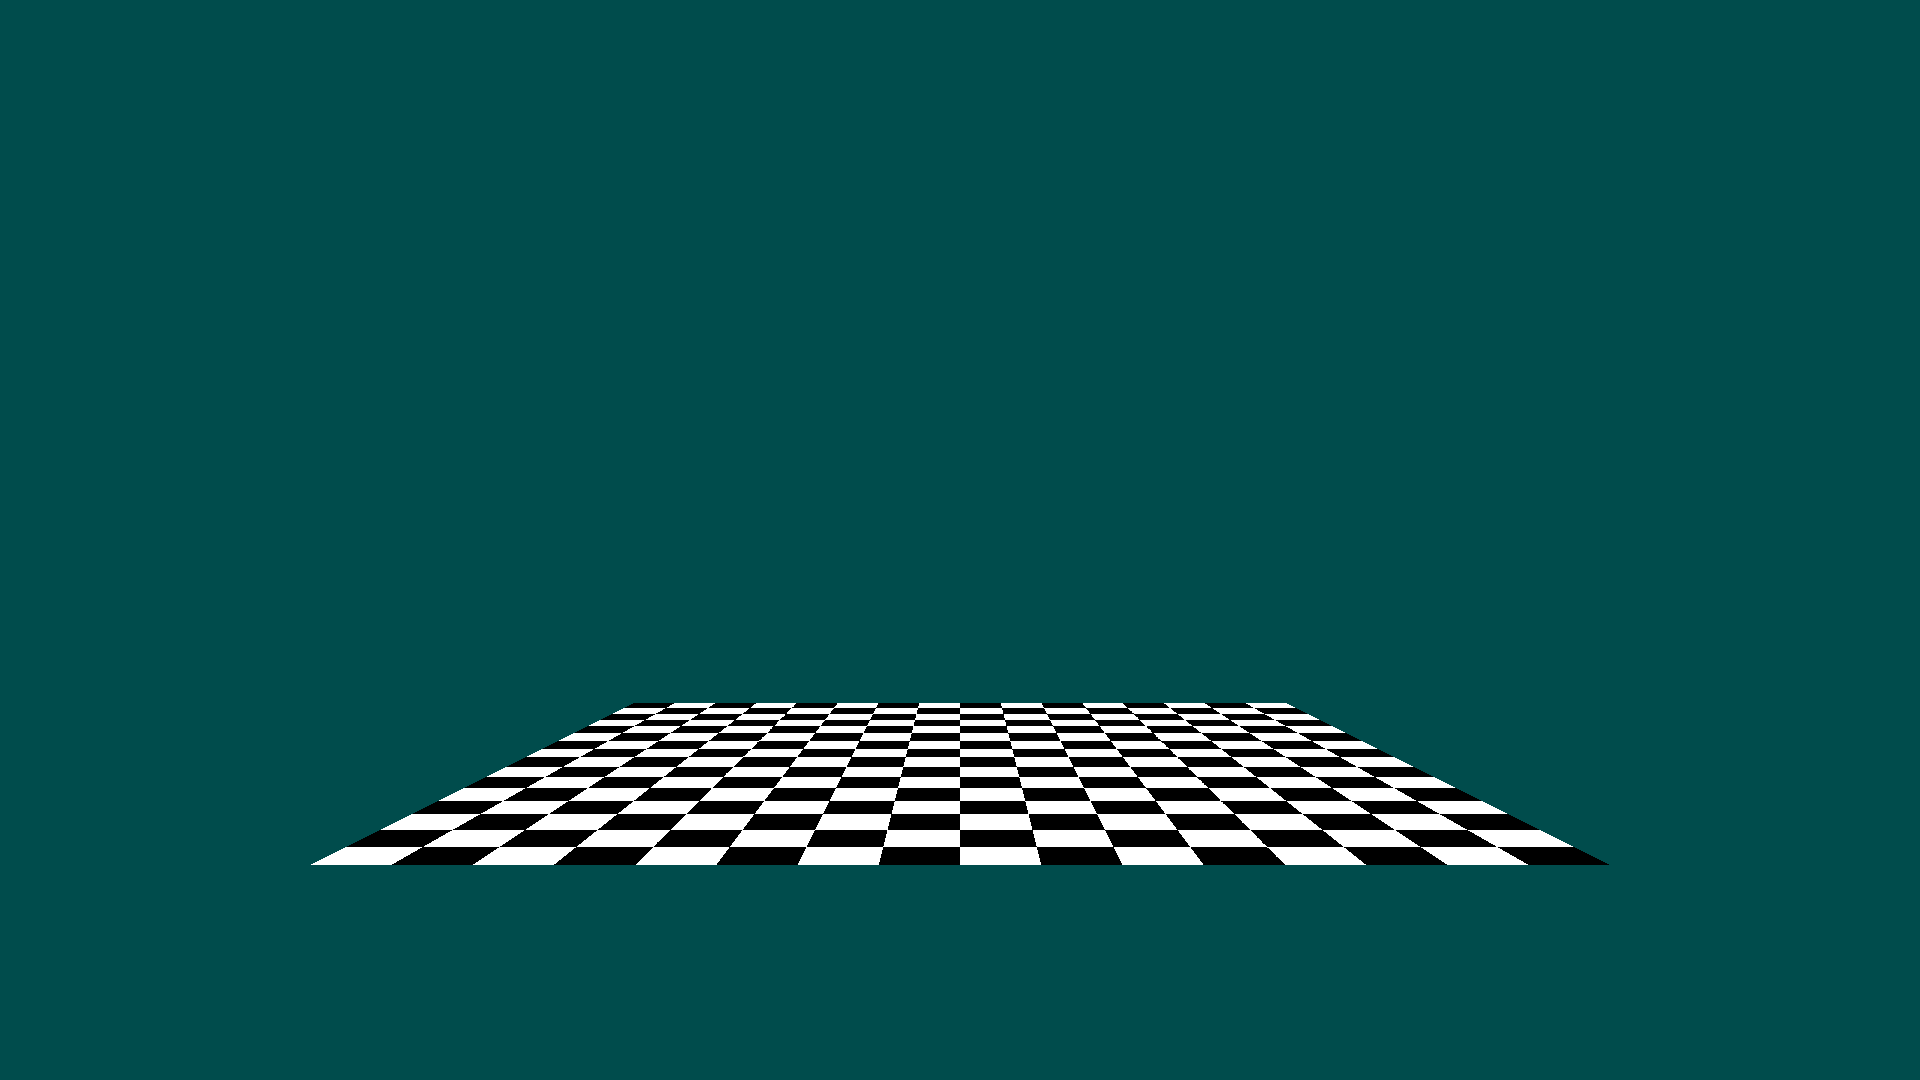
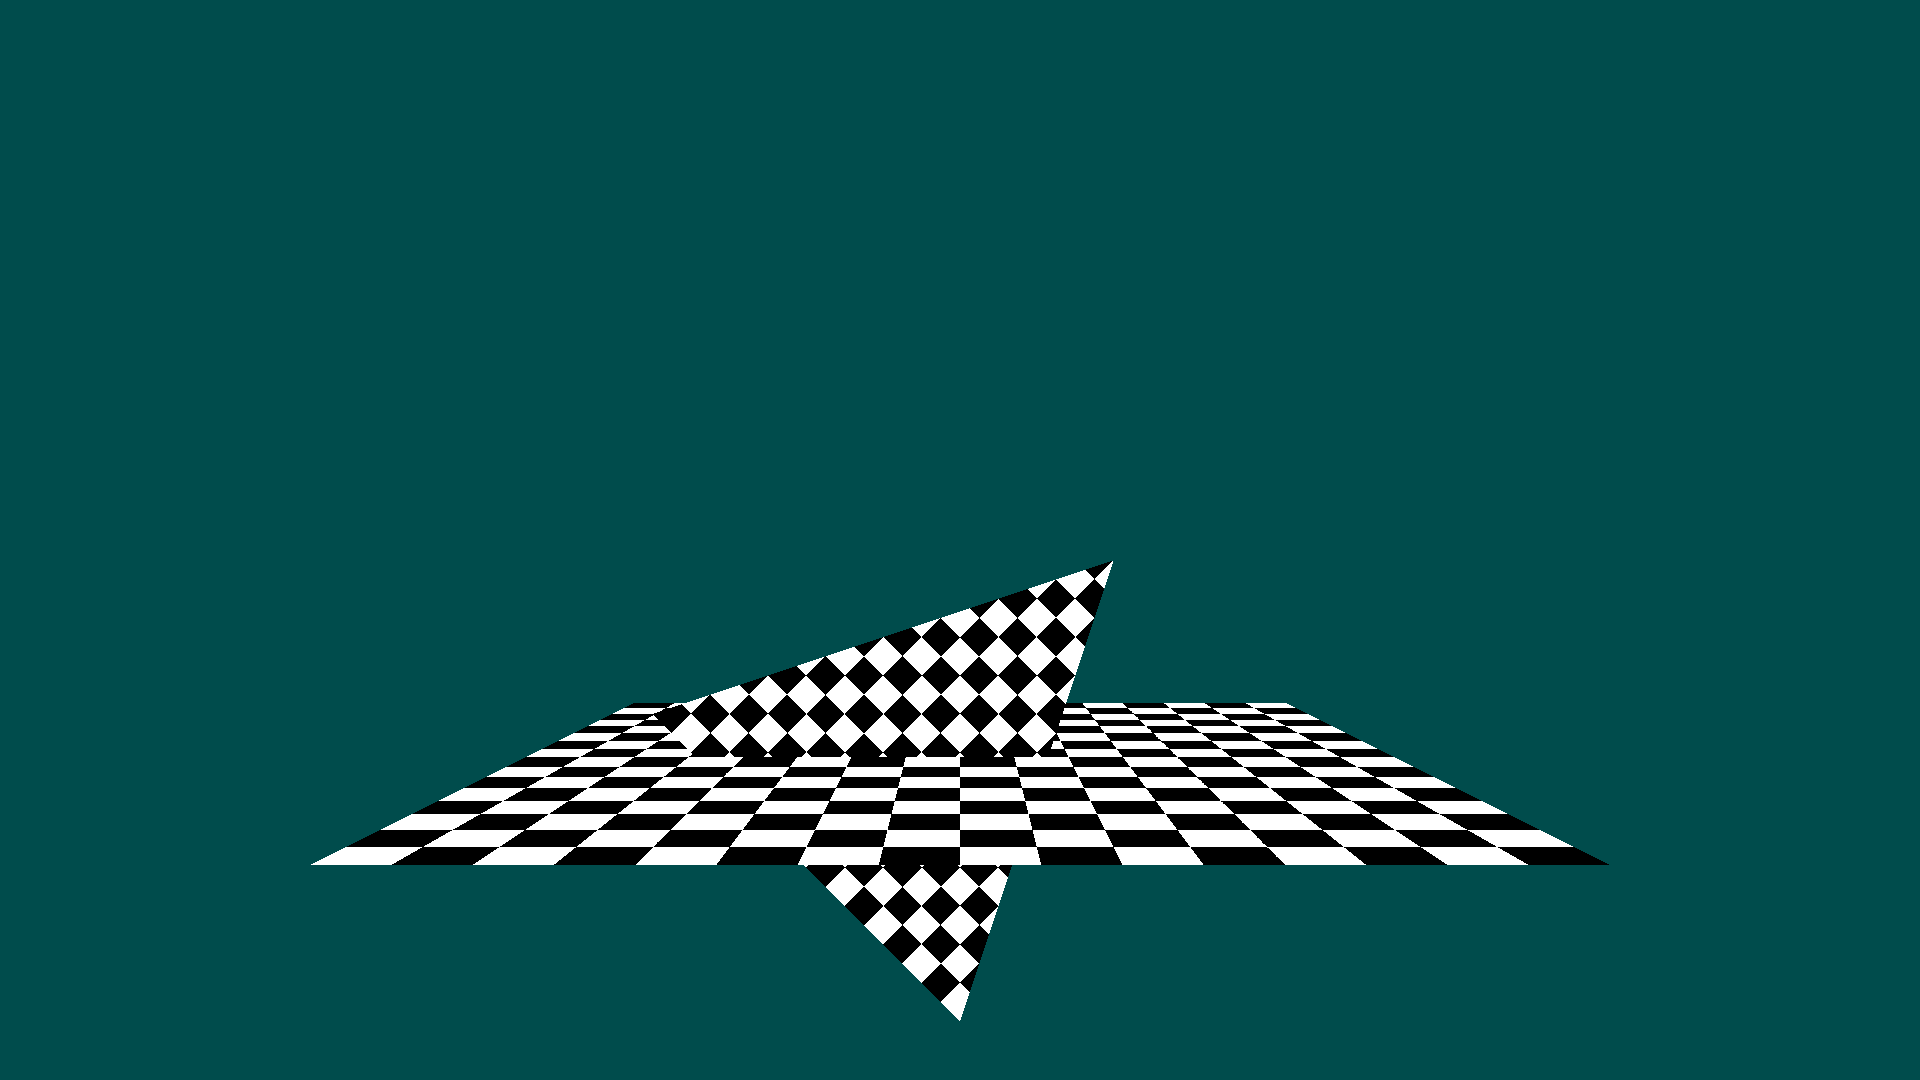
Fix depth buffer interpolation. Add scaling matrix.

Changed region(s): [[0.3438, 0.5194, 0.5938, 0.7028], [0.4062, 0.7944, 0.5312, 0.9472]]

diff --git a/App/main.cpp b/App/main.cpp
@@ -155,9 +155,9 @@ int main(int c, char* argv[])
                  0.0f,  -0.5f, 0.f, 1.f
 #else
                 // Position              Color              TexCoord
-                 0.5f,  0.5f, 0.f,       0, 0, 1, 1,        0, 0,
-                -0.5f,  0.5f, 0.f,       0, 1, 0, 1,        0, 1,
-                 0.0f, -0.5f, 0.f,       1, 0, 0, 1,        1, 1,
+                 0.5f,  0.5f, 0.f,       0, 0, 1, 1,        1, 0,
+                -0.5f,  0.5f, 0.f,       0, 1, 0, 1,        1, 1,
+                 0.0f, -0.5f, 0.f,       1, 0, 0, 1,        0, 0.5,
 
                  0.5f,  0.5f, 0.f,       1, 0, 0, 1,        0, 1,
                  -0.5f, 0.5f, 0.f,       0, 0, 1, 1,        0, 0,
@@ -207,9 +207,17 @@ int main(int c, char* argv[])
     swrast::enable_depth(true);
     swrast::enable_depth_write(true);
     swrast::bind_vertex_buffers(1, &vb);
+    // Draws the rectangle.
     swrast::draw_instanced(6, 1, 3, 0);
+    // Rotate the other triangle.
+    rot = swrast::rotate<float>(swrast::identity<float>(), swrast::float3_t(0, 0, 1), swrast::deg_to_rad(45.f));
+    t = swrast::translate<float>(swrast::identity<float>(), swrast::float3_t(0, 0.2, 1.5));
+    swrast::float4x4_t s = swrast::scale(swrast::identity<float>(), swrast::float3_t(0.5, 0.5, 0.5));
+    vs->mvp = s * rot * t * swrast::perspective_lh_aspect(swrast::deg_to_rad(45.0f), 1920.f/1080.f, 0.001f, 1000.0f);
+    swrast::draw_instanced(3, 1, 0, 0);
 
     int err = stbi_write_png("img.png", viewport.width, viewport.height, 4, (void*)rt, viewport.width * 4);
+
     err = stbi_write_png("depth.png", viewport.width, viewport.height, 4, (void*)ds, viewport.width * 4);
     swrast::release_resource(tex);
     swrast::release_resource(ds);

diff --git a/Private/Rasterizer.cpp b/Private/Rasterizer.cpp
@@ -175,9 +175,8 @@ error_t rasterizer_t::raster(uint32_t num_triangles, vertices_t& vertices, front
                     w2 /= area;
 
                     // linearly interpolate z and w
-                    float z = v0_s.z * w0 + v1_s.z * w1 + v2_s.z * w2;
                     float w_inv = 1.f / (w0 * v0_s.w + w1 * v1_s.w + w2 * v2_s.w);
-
+                    float z = 1.f / (v0_s.z * w0 + v1_s.z * w1 + v2_s.z * w2);
                     if (m_depth_enabled)
                     {
                         float dest_value = rop.read_depth_stencil(m_bound_framebuffer, m_viewports[0], x_s, y_s);
